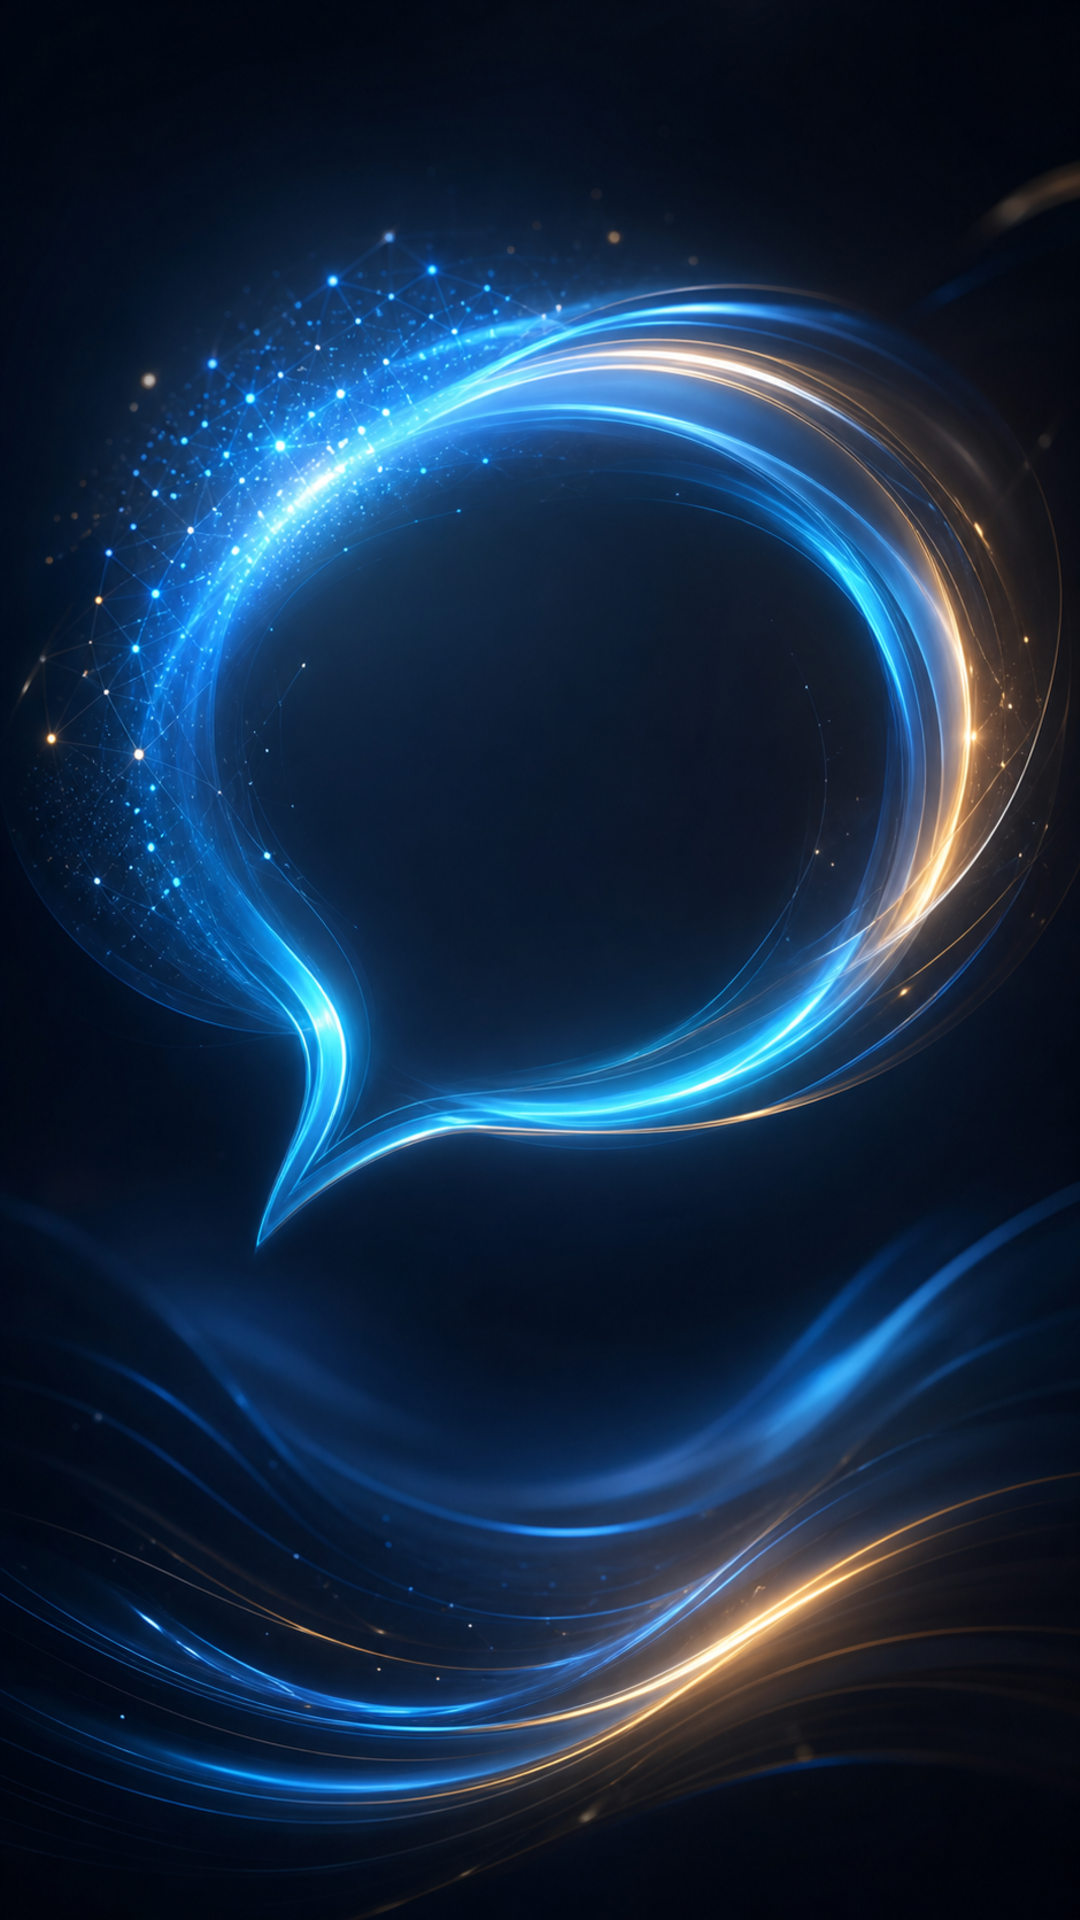
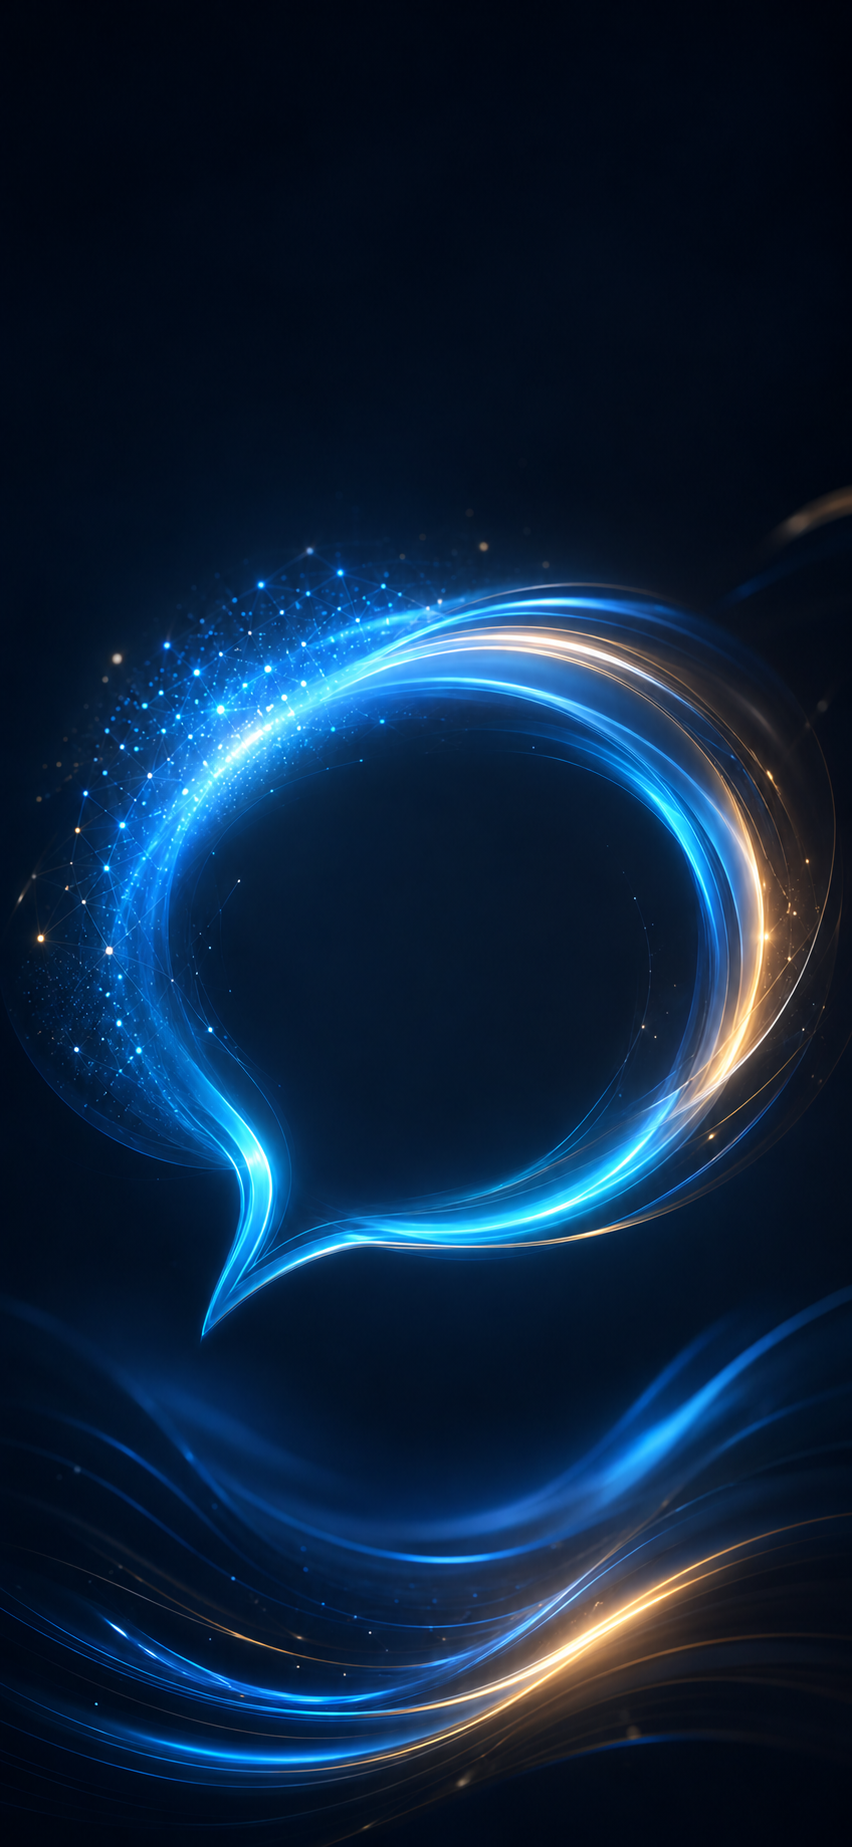
Refine startup transitions and landscape artwork
Brighten the launch background continuously, then fade the complete layer into the main interface. Composite its artwork and background together and retain the layer until the fade finishes.

Use dedicated portrait and landscape artwork with full-width light trails. Restore page focus after the transition and prepare v1.21.1.

diff --git a/README_EN.md b/README_EN.md
@@ -57,6 +57,11 @@ The project can serve as a development and integration reference for local AI ap
 
 ## Recent Highlights
 
+**Startup presentation (v1.21.1)**
+
+- Brighten the background continuously and fade smoothly into the main interface.
+- Use dedicated artwork in landscape windows, keeping the light ring intact and extending the light trails to both sides.
+
 **Streaming display and legacy model compatibility (v1.21.0)**
 
 - Reveal generated text progressively with a brief fade-in, steadier Markdown updates and stable code-block alignment.
